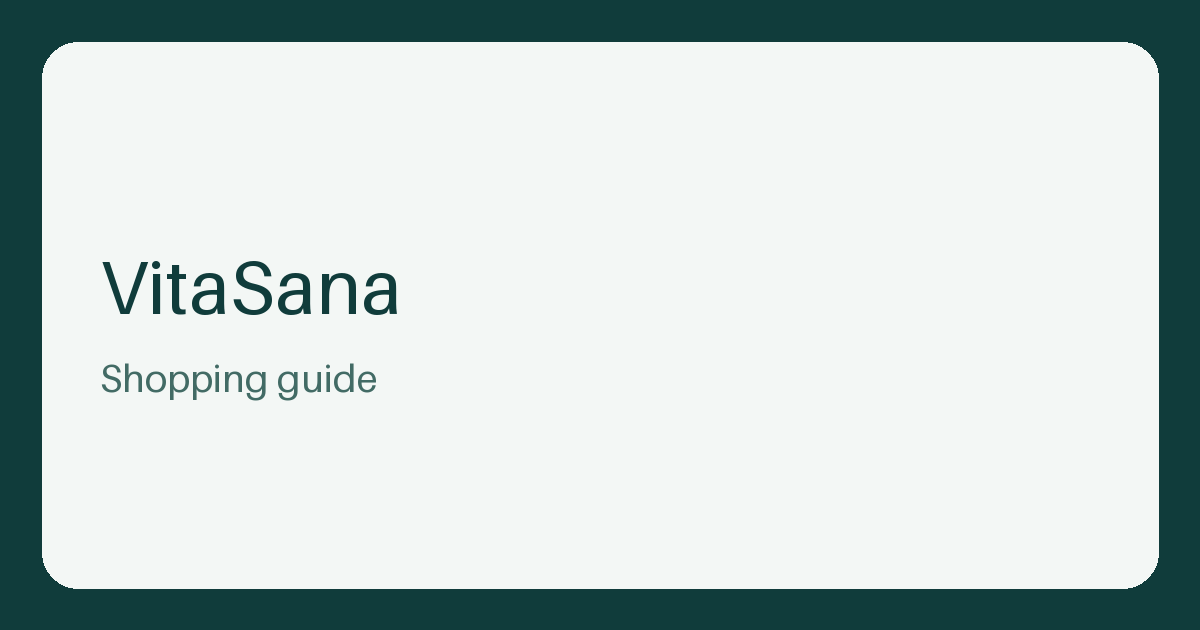
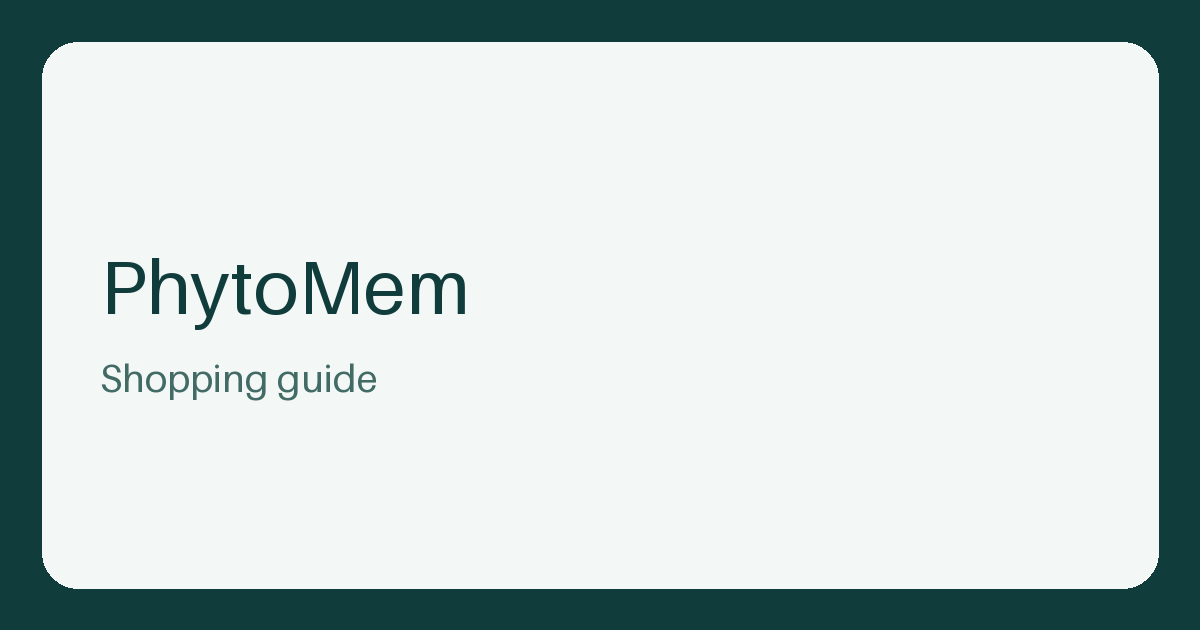
Add files via upload

Changed region(s): [[0.0925, 0.3921, 0.4008, 0.5429]]

diff --git a/index.html b/index.html
@@ -1,77 +1,60 @@
 <!doctype html>
 <html lang="en">
 <head>
-  <meta charset="utf-8">
-  <meta name="viewport" content="width=device-width, initial-scale=1">
-  <title>OfferLabell | Online Deals</title>
-  <link rel="icon" href="/favicon.png" type="image/png" sizes="96x96">
-  <meta name="description" content="Find the best prices and promotions on products, all in one place.">
-  <style>
-    * { box-sizing: border-box; }
-    body {
-      margin: 0;
-      background: #f8efd9;
-      color: #102f2b;
-      font-family: system-ui, sans-serif;
-    }
-    main {
-      display: grid;
-      grid-template-columns: minmax(0, 4fr) minmax(0, 6fr);
-      align-items: center;
-      gap: clamp(2rem, 5vw, 5rem);
-      width: min(100%, 94rem);
-      min-height: 100svh;
-      margin-inline: auto;
-      padding: clamp(1.25rem, 5vw, 5rem);
-    }
-    .brand {
-      margin: 0 0 1.75rem;
-      color: #17614f;
-      font-size: 0.875rem;
-      font-weight: 800;
-      letter-spacing: 0.13em;
-      text-transform: uppercase;
-    }
-    h1 {
-      margin: 0;
-      font: 500 clamp(3rem, 6vw, 6.75rem)/0.97 Georgia, serif;
-      letter-spacing: -0.055em;
-      text-wrap: balance;
-    }
-    h1 span { color: #9b4127; }
-    .description {
-      max-width: 31ch;
-      margin: 1.5rem 0 0;
-      font-size: clamp(1rem, 1.6vw, 1.25rem);
-      line-height: 1.55;
-    }
-    img {
-      display: block;
-      width: 100%;
-      aspect-ratio: 5 / 4;
-      object-fit: cover;
-      border-radius: 1.5rem;
-      background: #b8dcd1;
-    }
-    @media (max-width: 48rem) {
-      main {
-        grid-template-columns: 1fr;
-        align-content: center;
-        padding-block: 2.5rem;
-      }
-      img { aspect-ratio: 4 / 3; }
-    }
-  </style>
-  <!-- GOOGLE ADS: cole aqui a tag base, se ainda nao estiver instalada nesta pagina. -->
+<meta charset="utf-8">
+<meta name="viewport" content="width=device-width, initial-scale=1">
+<title>PhytoMem | Shopping guide</title>
+<meta name="description" content="PhytoMem One is a neuro-essential supplement marketed as a 10-in-1 formula designed to support cognitive focus, memory, and metabolic brain wellness.">
+<link rel="canonical" href="https://afreccia-pixel.github.io/onlineshopping/phytomem/">
+<link rel="icon" href="favicon.png" type="image/png" sizes="96x96">
+<meta property="og:type" content="website">
+<meta property="og:title" content="PhytoMem | Shopping guide">
+<meta property="og:description" content="PhytoMem One is a neuro-essential supplement marketed as a 10-in-1 formula designed to support cognitive focus, memory, and metabolic brain wellness.">
+<meta property="og:url" content="https://afreccia-pixel.github.io/onlineshopping/phytomem/">
+<meta property="og:image" content="https://afreccia-pixel.github.io/onlineshopping/phytomem/miniatura.png">
+<meta property="og:image:alt" content="PhytoMem | Shopping guide">
+<style>
+* { box-sizing: border-box; }
+body { margin: 0; background: #f5f2ec; color: #26372e; font: 1rem/1.65 system-ui, sans-serif; }
+.hero { display: grid; justify-items: center; gap: clamp(1rem, 2.6vw, 2rem); padding: clamp(1.75rem, 5vw, 3.5rem) 1rem; background: radial-gradient(ellipse at 50% 65%, #fafff7 0%, #e4eee1 55%, #cbded1 100%); text-align: center; }
+.hero h1 { margin: 0; max-width: 100%; overflow-wrap: anywhere; color: #173e30; font: 600 clamp(2.75rem, 7vw, 5rem)/1 Georgia, serif; letter-spacing: -.055em; }
+.product-photo { display: block; width: min(100%, 32rem); height: clamp(9rem, 32svh, 16rem); object-fit: contain; filter: drop-shadow(0 .65rem .48rem #193e302e); }
+.hero-action { width: min(100%, 22rem); }
+.cta { display: flex; justify-content: center; align-items: center; gap: .75rem; min-height: 3.25rem; padding: .75rem 1.25rem; border-radius: .75rem; background: #1d523d; color: white; font-weight: 750; text-decoration: none; box-shadow: 0 .45rem 1rem #123d3429; }
+.cta:hover { background: #133b2a; }
+a:focus-visible, summary:focus-visible { outline: 3px solid #9d6025; outline-offset: 4px; }
+.shell { width: min(46rem, calc(100% - 2rem)); margin: clamp(1rem, 4vw, 2.25rem) auto; padding: clamp(1.15rem, 4vw, 2rem); background: #fff; border: 1px solid #e4e8df; border-radius: 1rem; }
+.purchase-details a { color: #205640; text-underline-offset: .2em; }
+.purchase-details > a { font-size: 1.15rem; font-weight: 750; }
+.purchase-details p { margin: .5rem 0; }
+.purchase-details h2 { margin: 1rem 0 0; font-size: 1.15rem; }
+.purchase-details details { margin-top: 1rem; padding-top: .875rem; border-top: 1px solid #e4e8df; }
+.purchase-details summary { cursor: pointer; font-weight: 700; }
+@media (max-width: 650px) {
+  .product-photo { height: clamp(8rem, 27svh, 11rem); }
+}
+</style>
+<!-- GOOGLE ADS: cole aqui a tag base, se ainda nao estiver instalada nesta pagina. -->
 </head>
 <body>
-  <main>
-    <section aria-labelledby="headline">
-      <p class="brand">OfferLabell</p>
-      <h1 id="headline">Great deals.<br><span>One place.</span></h1>
-      <p class="description">Find the best prices and promotions on products, all in one place.</p>
-    </section>
-    <img src="./offerlabell-beach.webp" alt="A smiling couple walks along a tropical beach beside turquoise water.">
-  </main>
+<main>
+<section class="hero" aria-labelledby="product">
+<h1 id="product">PhytoMem</h1>
+<img class="product-photo" src="miniatura.png" alt="PhytoMem" fetchpriority="high">
+<div class="hero-action">
+<a class="cta" href="https://3ab02c1h1yvqtk2jvvu8u1xs2z.hop.clickbank.net" rel="sponsored noopener">View seller’s offer <span aria-hidden="true">→</span></a>
+</div>
+</section>
+<div class="shell purchase-details">
+<a href="https://3ab02c1h1yvqtk2jvvu8u1xs2z.hop.clickbank.net" rel="sponsored noopener">Product and purchase details <span aria-hidden="true">↗</span></a>
+<p>PhytoMem One is a neuro-essential supplement marketed as a 10-in-1 formula designed to support cognitive focus, memory, and metabolic brain wellness.</p>
+<details><summary>Shopping guide</summary>
+<section><h2>Product and Purchase Information</h2>
+<p>PhytoMem One is available for purchase exclusively online through the provided website. The product is offered in three package options: a Starter package (2 bottles), an Advanced package (3 bottles), and an Ultimate package (6 bottles). All purchases include three bonus ebooks. The seller uses ClickBank as the retailer for these transactions, and payments may appear as &#x27;CLICKBANK&#x27; on statements. The manufacturer states that there are no recurring charges or subscriptions associated with these purchases.</p><a href="https://3ab02c1h1yvqtk2jvvu8u1xs2z.hop.clickbank.net">Source</a></section><section><h2>Shipping and Returns</h2>
+<p>The product is covered by a 60-day money-back guarantee. Customers who are not satisfied with their purchase may contact the support team via email for a refund. Information regarding specific shipping policies, including international availability or flat-rate costs, is not explicitly detailed beyond noting a small shipping fee for the Starter package and free US shipping for the Advanced and Ultimate packages.</p><a href="https://3ab02c1h1yvqtk2jvvu8u1xs2z.hop.clickbank.net">Source</a></section>
+</details>
+</div>
+</main>
+<!-- GOOGLE ADS: cole aqui o snippet de conversao por clique e associe aos links da oferta usando o rotulo deste produto. -->
 </body>
 </html>
